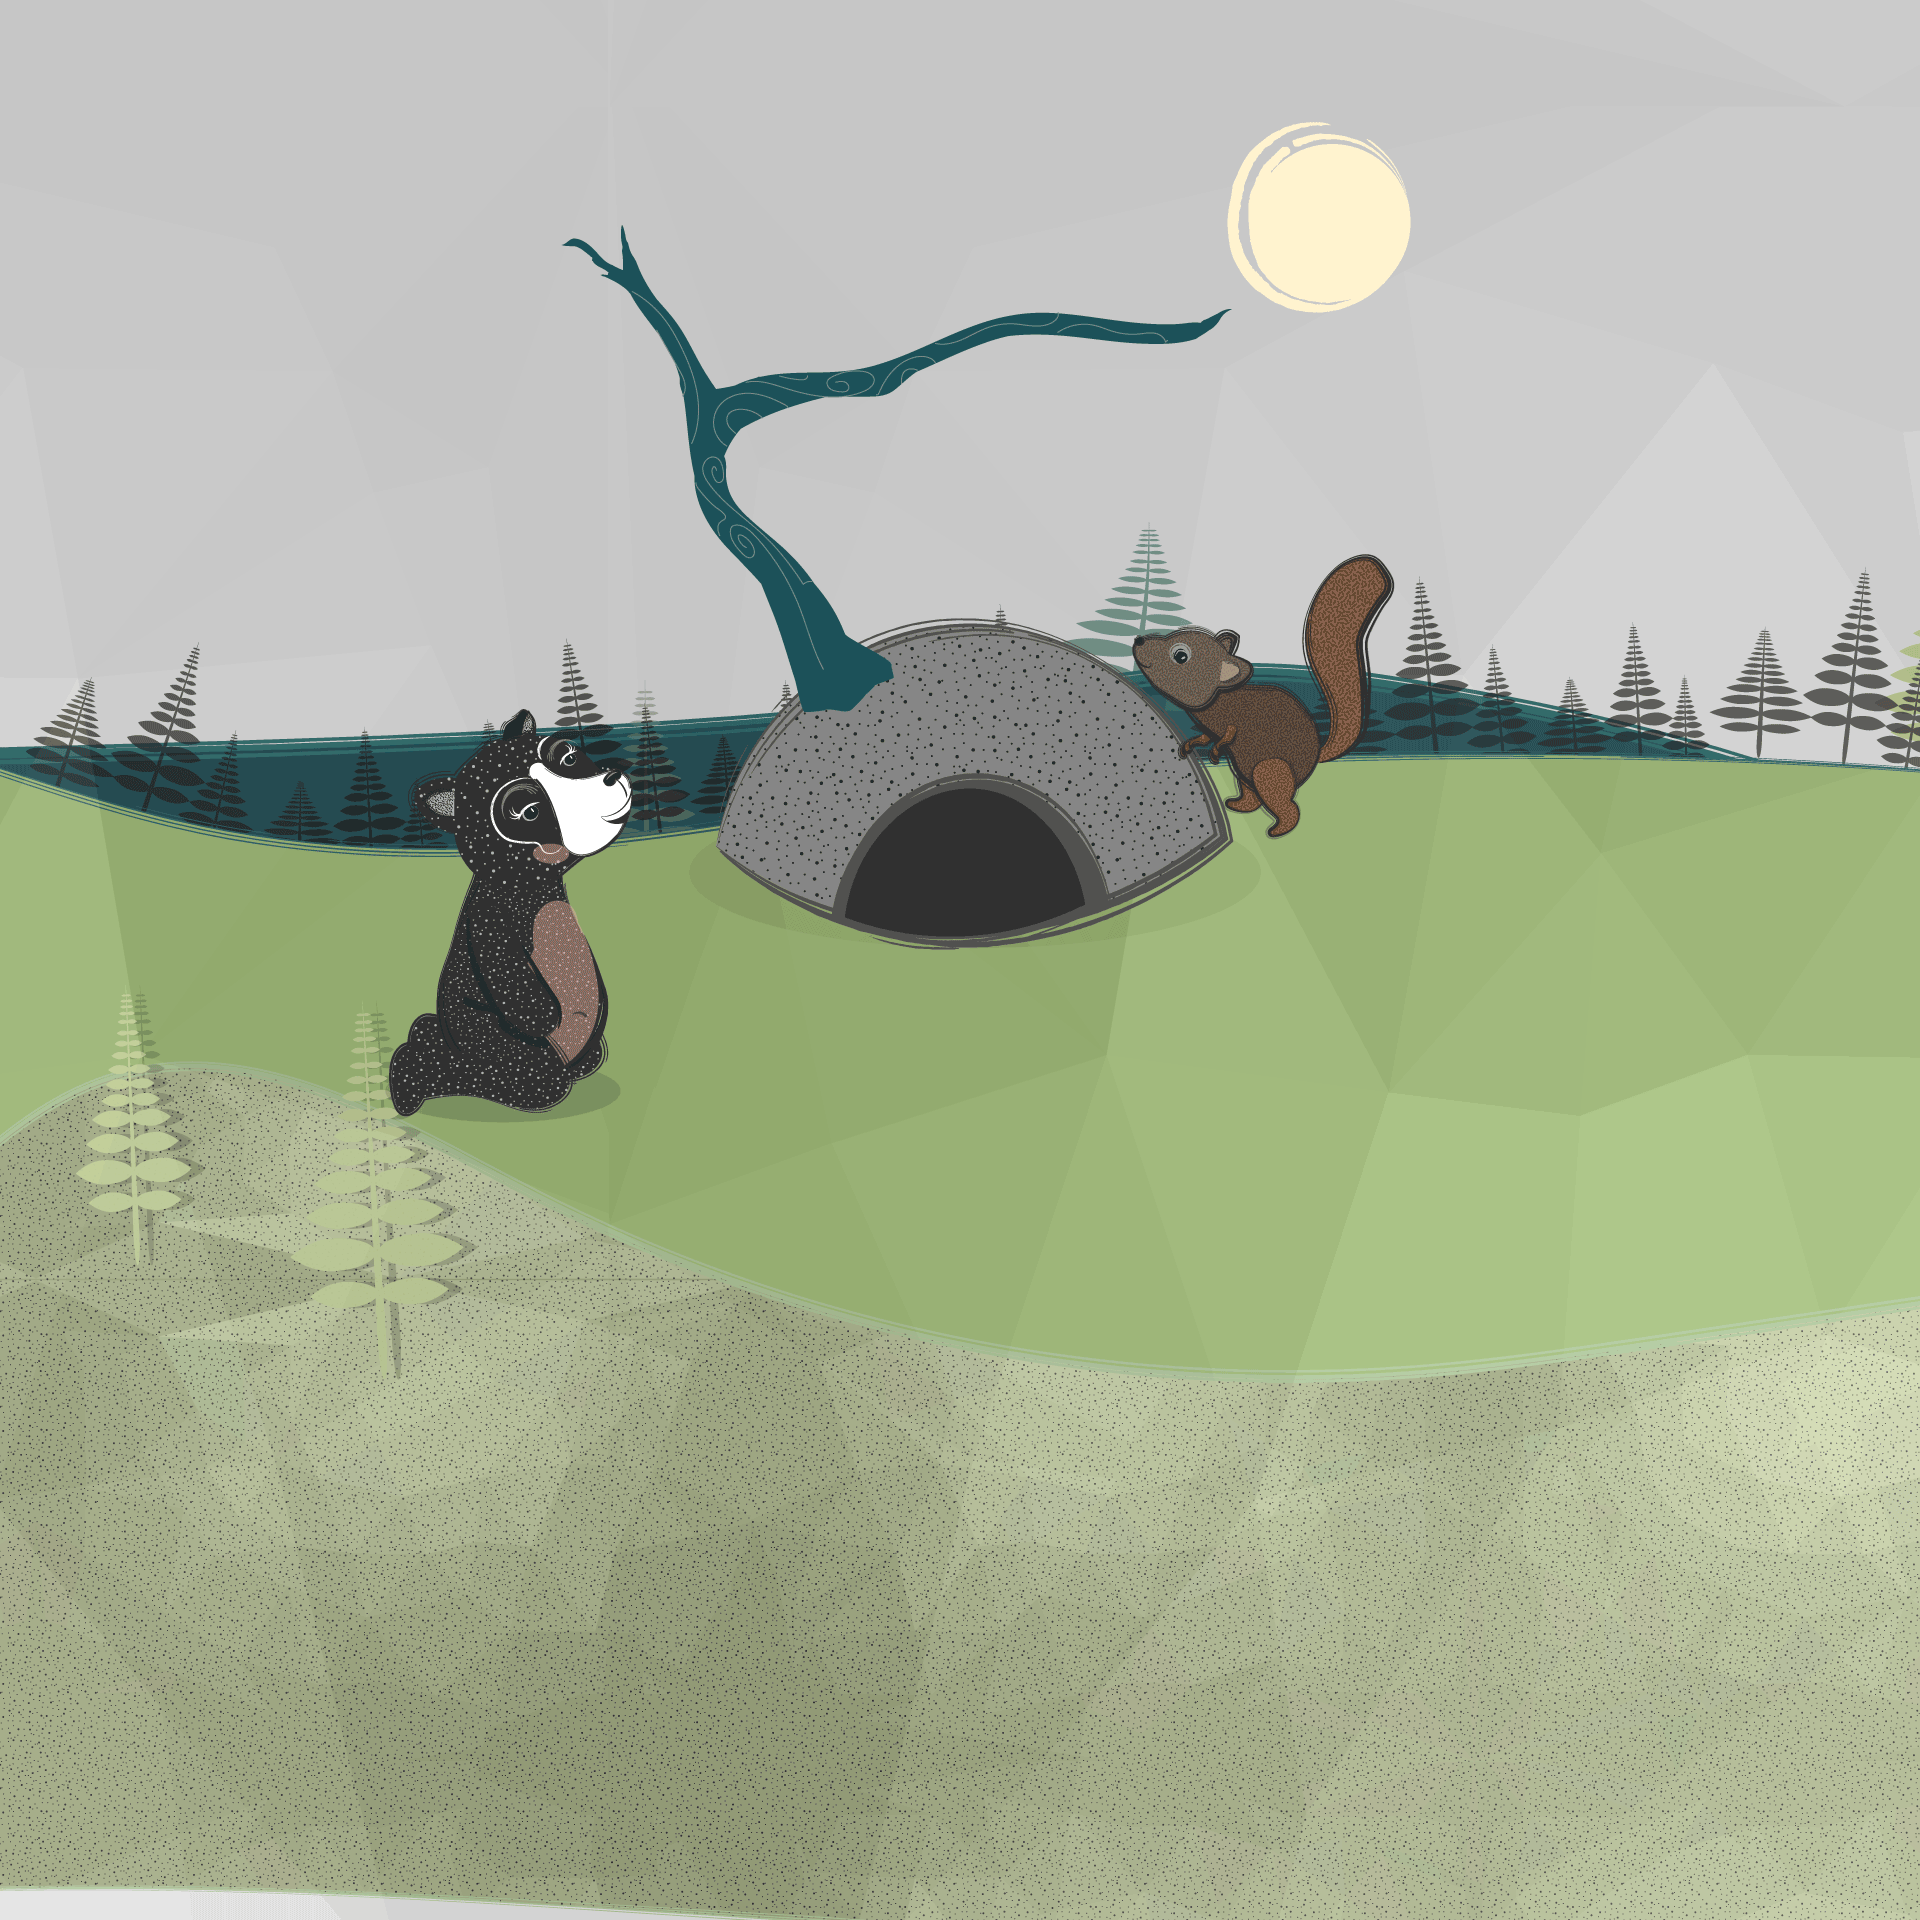
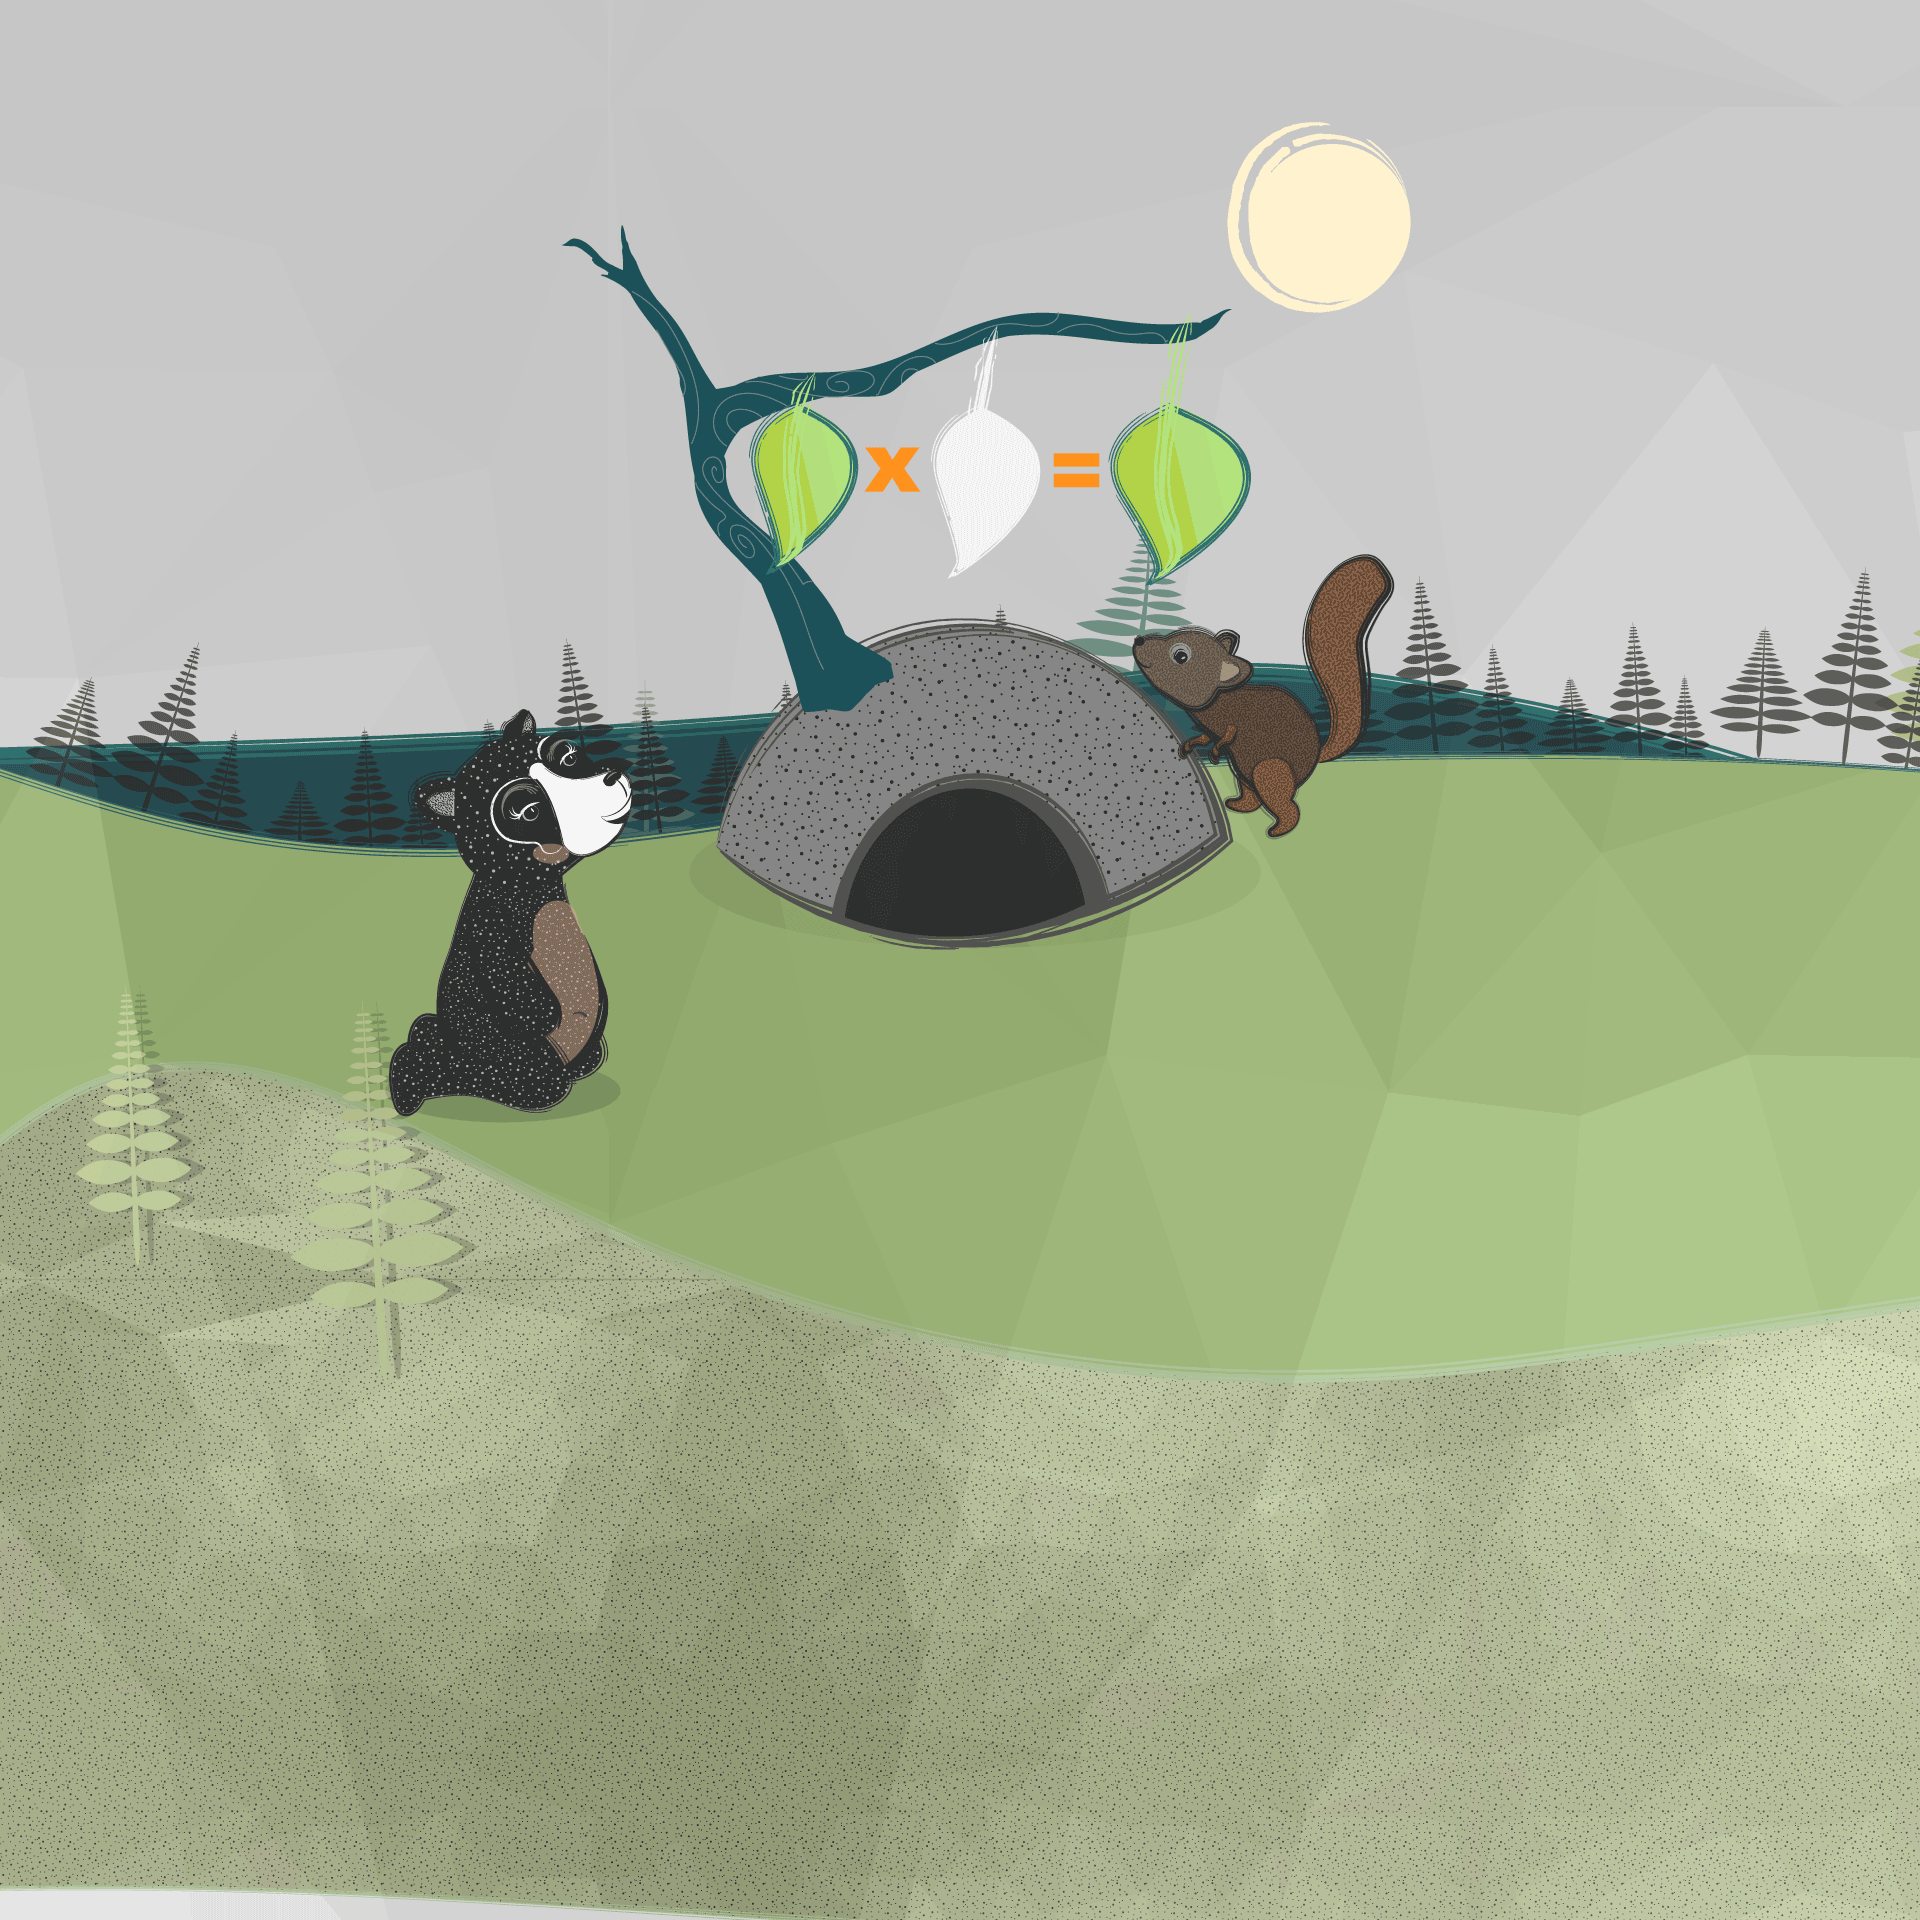
Level 4, Challenge 5 completed

Changed region(s): [[0.375, 0.1875, 0.6562, 0.3125], [0.2812, 0.4688, 0.3125, 0.5625]]

diff --git a/src/assets/game/html/l_4/ch_5.html b/src/assets/game/html/l_4/ch_5.html
@@ -5,27 +5,35 @@
         <ion-slide tepuy-item-group [tepuy-group-id]="id" (groupInit)="prepare($event, group)">
           <ng-container *ngIf="group.ready">
             <div class="row-0">
+              <div class="row-wrapper">
                 <div class="leaf-container" [ngStyle]="tBoxStyle">
-                  <div class="leaf-0" tepuy-autofit>
-                    <div class="leaf-icon leaf-full" [tepuy-scale]="1920">
-                      <span>{{group.data}}</span>
+                  <div class="leaf-wrapper">
+                    <div class="leaf-0" tepuy-autofit>
+                      <div class="leaf-spot" [tepuy-scale]="1920">
+                        <span>{{group.data}}</span>
+                      </div>
                     </div>
-                  </div>
-                  <div class="leaf-1">
-                    <div tepuy-autofit tepuy-drop-zone [tepuy-correct-values]="group.value" tepuy-auto-feedback="true">
-                      <div class="leaf-icon leaf-empty" [tepuy-scale]="1920">&nbsp;</div>
+                    <div class="leaf-1">
+                      <div tepuy-autofit tepuy-drop-zone [tepuy-correct-values]="group.value" tepuy-auto-feedback="true">
+                        <div class="leaf-spot" [tepuy-scale]="1920" drop-ignore>&nbsp;</div>
+                      </div>
                     </div>
-                  </div>
-                  <div class="leaf-2" tepuy-autofit>
-                    <div class="leaf-icon leaf-result" [tepuy-scale]="1920">{{group.data*group.value}}</div>
+                    <div class="leaf-2" tepuy-autofit>
+                      <div class="leaf-spot leaf-result" [tepuy-scale]="1920">{{group.data*group.value}}</div>
+                    </div>
                   </div>
                 </div>
+              </div>
             </div>
             <div class="row-1" *tepuyValueGenerator="'randomof:numbers:min=1;max=9'+';'; include:[group.value]; count:3;shuffle:true;type:'scalar' let options=values">
-              <div class="leaf-container" [ngStyle]="tBoxStyle">
-                <div *ngFor="let opt of options; let i=index" class="leaf-{{i}}" tepuy-item tepuy-draggable tepuy-greetable [tepuy-group-id]="group.id" [tepuy-value]="opt" tepuy-autofit>
-                  <div class="leaf-icon leaf-draggable" [tepuy-scale]="1920">
-                    <span tepuy-item-value>&nbsp;</span>
+              <div class="row-wrapper">
+                <div class="leaf-container" [ngStyle]="tBoxStyle">
+                  <div class="leaf-wrapper">
+                    <div *ngFor="let opt of options; let i=index" class="leaf-{{i}}" tepuy-item tepuy-draggable tepuy-greetable [tepuy-group-id]="group.id" [tepuy-value]="opt" tepuy-autofit>
+                      <div class="leaf-icon leaf-draggable" [tepuy-scale]="1920">
+                        <span tepuy-item-value>&nbsp;</span>
+                      </div>
+                    </div>
                   </div>
                 </div>
               </div>

diff --git a/src/pages/game/game-challenge.scss b/src/pages/game/game-challenge.scss
@@ -3094,18 +3094,23 @@ page-game-challenge {
       position: absolute;
       display:flex;
       justify-content: center;
-      .leaf-container {
+      .row-wrapper, .leaf-wrapper {
         position: relative;
+        width: 100%;
+        height: 100%;
+      }
+      .leaf-container {
+        position: absolute;
       }
     }
 
     .row-0 {
-      top:22%;
+      top:24%;
       .leaf-container {
         @for $l from 0 through 2  {
           .leaf-#{$l} {
             position: absolute;
-            left: 10% + $l * 36%;
+            left: $l * 35%;
             bottom: 0;
             .tepuy-droppable { position: relative; }
           }
@@ -3113,22 +3118,26 @@ page-game-challenge {
       }
     }
     .row-1 {
-      bottom:15%;
+      bottom:8%;
       display:flex;
       justify-content: center;
       .leaf-container {
         @for $l from 0 through 2  {
           .leaf-#{$l} {
             position: absolute;
-            left: 22% + $l * 20%;
+            left: $l * 35%;
           }
         }
       }
     }
 
-    .leaf-result {
-      //width: 194px;
-      //height: 182px;
+    .leaf-spot {
+      width: 132px;
+      height: 257px;
+      @include transform-origin(left top);
+      &.leaf-result {
+        width: 149px;
+      }
     }
 
     .leaf-icon {
@@ -3138,33 +3147,26 @@ page-game-challenge {
       @include transform-origin(left top);
       pointer-events: none;
 
-      $icons: leaf-full;
-      @include appSpriteIcons($icons, 50px, 50px, 0, 0px, 109px, 203px);
-      $icons: leaf-empty;
-      @include appSpriteIcons($icons, 250px, 50px, 0, 0px, 109px, 234px);
-      $icons: leaf-result;
-      @include appSpriteIcons($icons, 450px, 50px, 0, 0px, 143px, 275px);
-
       $icons: leaf-draggable;
-      @include appSpriteIcons($icons, 50px, 400px, 0, 0px, 132px, 190px);
+      @include appSpriteIcons($icons, 50px, 50px, 0, 0px, 132px, 257px);
     }
 
-    .leaf-icon, .leaf-result {
-      font-size: 5em;
+    .leaf-icon, .leaf-spot {
+      font-size: 85px;
       font-weight: bold;
-      line-height: 2em;
+      line-height: 120px*2.5;
       color: #fff
     }
 
     .tepuy-dropped {
       &.tepuy-correct {
         .leaf-icon {
-          background-position: -250px -400px;
+          background-position: -250px -50px;
         }
       }
       &.tepuy-wrong {
         .leaf-icon {
-          background-position: -450px -400px;
+          background-position: -450px -50px;
         }
       }
     }

diff --git a/src/assets/game/html/l_4/ch_5.ts b/src/assets/game/html/l_4/ch_5.ts
@@ -40,15 +40,20 @@ export function componentBuilder(template:string, css:string): Type<any> {
       const rect = this.platform.getElementBoundingClientRect(el);
       const scale = rect.height / 1920;
       let tBoxRect:any = {
-        w: 468 * scale,
-        h: 275 * scale
+        w: 528 * scale,
+        h: 257 * scale
       };
-      //tBoxRect.l = Math.floor((((rect.width - tBoxRect.w) * 0.5206/rect.width))*10000)/100;
+      const sw = rect.height; // * 100 / 70;
+      let left = sw * (737 / 1920);
+      let offset = (sw - rect.width) / 2;
+      left -= offset;
+      tBoxRect.l = left;
 
       this.ngZone.run(() => {
         this.tBoxStyle = { 
           'width.px': tBoxRect.w,
-          'height.px': tBoxRect.h
+          'height.px': tBoxRect.h,
+          'left.px': tBoxRect.l
         };
       });
     }

diff --git a/src/tepuy-angular/behaviors/tepuy-draggable.directive.ts b/src/tepuy-angular/behaviors/tepuy-draggable.directive.ts
@@ -63,7 +63,9 @@ export class TepuyDraggableDirective implements AfterViewInit {
   onPanStart(ev) {
     if (!this.canDrag) return true;
     this.isDragging = true;
-    this.audioPlayer.stopAll();
+    if (!this.item.actAsGreetable) {
+      this.audioPlayer.stopAll();
+    }
   }
 
   onPanEnd(ev) {
